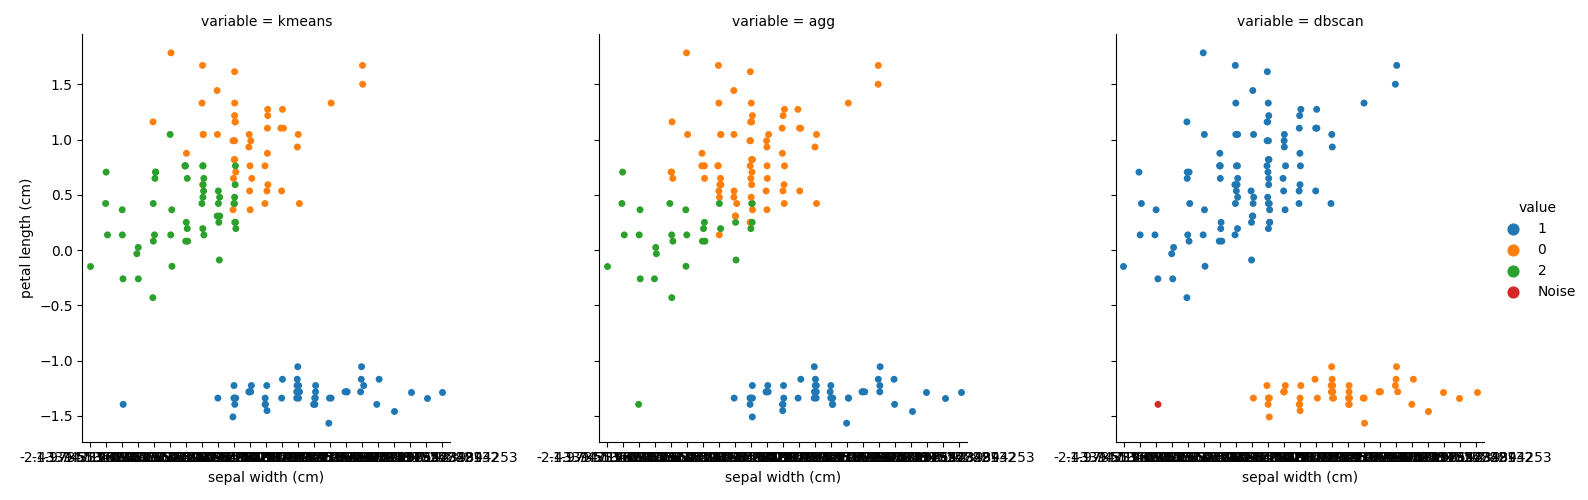
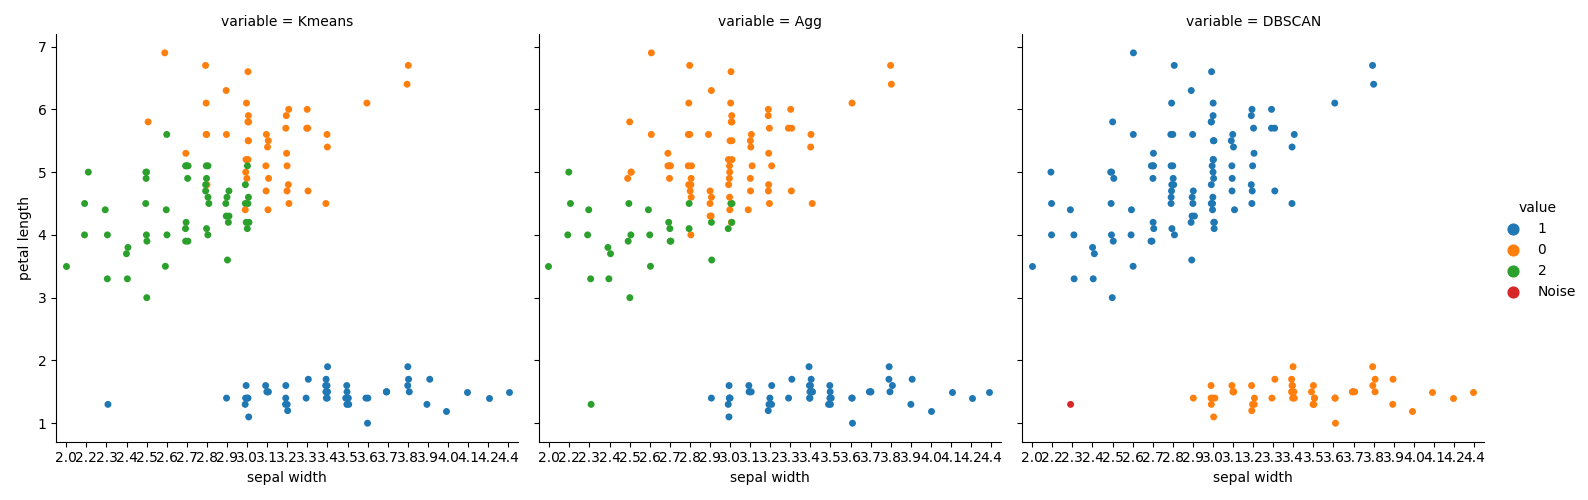
fixed dimensionality problem

diff --git a/Day 3 exo.py b/Day 3 exo.py
@@ -1,15 +1,21 @@
 import pandas as pd
 import seaborn as sns
 from sklearn.datasets import fetch_california_housing, load_iris
-from sklearn.preprocessing import PolynomialFeatures, StandardScaler, Normalizer
+from sklearn.preprocessing import PolynomialFeatures, StandardScaler
 from sklearn.decomposition import PCA
 from sklearn.cluster import DBSCAN, AgglomerativeClustering, KMeans
-from sklearn.metrics import calinski_harabasz_score, davies_bouldin_score, silhouette_score
+from sklearn.metrics import silhouette_score
 
+#(a) get data
 housing = fetch_california_housing()
 X = housing["data"]
+
+#(b) get polynomials, feature names
 poly = PolynomialFeatures(degree=2, include_bias=False)
-df = pd.DataFrame(poly.fit_transform(X), columns=poly.get_feature_names(housing.feature_names))
+fn = poly.get_feature_names(housing.feature_names)
+
+#(c) save to csv
+df = pd.DataFrame(poly.fit_transform(X), columns = fn)
 df["y"] = housing["target"]
 df.to_csv("./output/polynomials.csv")
 
@@ -17,82 +23,96 @@ df.to_csv("./output/polynomials.csv")
 """"
 Exercice 2
 """
+
+#(a) get data
 olympics = pd.read_csv("./data/olympics.csv", index_col=0)
-olympics.head()
+
+#(b)print descriptives
 olympics.dtypes
-olympics.describe
+olympics.describe()
+
+
 # The matrix's index is sorted by score, so abandonning score would not lose information on score ranking.
 # Further, score is a linear combination of the other covariates. It has hence appears as the outcome of interest.
-# This would make score the Y vector to be predicted by X the design matrix of performance on indiviudal tasks. Therfore,
-# it would make sense to assign it its own vector drop score from the dataframe.
+# This would make score the target vector to be predicted by X, the design matrix of performance on individual tasks.
+# Therefore, it would make sense to assign it its own vector drop score from the dataframe.
 olympics = olympics.drop(columns = ["score"])
 
-# (b)
+# (c)
 scaler = StandardScaler()
 scaler.fit(olympics)
-nolympics = pd.DataFrame(scaler.transform(olympics), columns=olympics.columns)
-nolympics.var(axis=0)
+n_olympics = pd.DataFrame(scaler.transform(olympics), columns=olympics.columns)
 
-# (c)
+#check it has unit variance
+n_olympics.var(axis=0)
+
+#(c)
 pca = PCA(random_state=42)
-pca.fit(nolympics)
-comp = pca.components_  # how does it represent covariates v componenets
+pca.fit(n_olympics)
+n_olympics_components = pd.DataFrame(pca.components_, columns = olympics.columns)
+# The most influential covariates in the 1st component are the 100m sprint, 110m hurdles, and running long.
+# The most influential covariates in the 2nd component are the discus throw, pole vault, 1,500m run.
+# The most influential covariates in the 3rd component are the high jump, 100m, and the 1,500 run.
+# These are the variables in which there is the most variance and most informative.
+
+#(d)
 df = pd.DataFrame(pca.explained_variance_ratio_, columns=["Explained Variance ratio"])
 df["Cumulative"] = df["Explained Variance ratio"].cumsum()
-# Taking components as the rows, the most influential covariates in 0 are 5, and 1 in decreasing order of influence.
-# This corresponds to doing well on the 100m, the 400m, and the long jump, which might indicate that these skills
-# are the most valuable to the decathlon. T
-# These seem to correspond to a more agile profile.
-# (d)
-# We need at least 6 covariates to explain at least 90% of the variance.
+# We need at least 7 covariates to explain at least 90% of the variance.
 
 """
 Exercice 3
 """
+
+#(a) get data
 iris = load_iris()
 x = iris["data"]
+
+#(b) scale
 scaler = StandardScaler()
 scaler.fit(x)
+x_unscaled = pd.DataFrame(iris["data"], columns=iris["feature_names"])
 x = pd.DataFrame(scaler.transform(x), columns=iris["feature_names"])
 
-# kmeans
+
+# (c) kmeans
 kmeans = KMeans(n_clusters=3, random_state=42)
 kmeans.fit(x)
-kmeansdf = pd.DataFrame(kmeans.fit_transform(x), columns=kmeans.get_feature_names_out())
-
-# Agglomerative Clustering
-agg = AgglomerativeClustering(n_clusters=3)
-agg.fit(x)
-aggdf = pd.DataFrame(agg.get_params(), columns=agg.feature_names_in_)
-
-# DBSCAN
-dbscan = DBSCAN(eps=1, min_samples=2)
-dbscan.fit(x)
-dbscandf = pd.DataFrame(dbscan.components_, columns=dbscan.feature_names_in_)
 
 # (d)
-df = pd.DataFrame(x, columns=iris["feature_names"])
-df["kmeans"] = kmeans.labels_
-df["agg"] = agg.labels_
-df["dbscan"] = dbscan.labels_ #-1 means noise - nothing to do with other clusters
-df.drop(columns = ["sepal length (cm)", "petal width (cm)"])
-df.head()
+#Agglomerative Clustering
+agg = AgglomerativeClustering(n_clusters=3)
+agg.fit(x)
+#DBSCAN
+dbscan = DBSCAN(eps=1, min_samples=2)
+dbscan.fit(x)
 
-print(silhouette_score(x, kmeans.labels_))
-print(silhouette_score(x, agg.labels_))
-print(silhouette_score(x, dbscan.labels_))
+#join
+df = pd.DataFrame(kmeans.labels_, columns = ["Kmeans"])
+df["Agg"] = agg.labels_
+df["DBSCAN"] = dbscan.labels_#-1 means noise - nothing to do with other clusters
+
+print(f"K-means silouhette score: {silhouette_score(x, kmeans.labels_)} \n "
+      f"Agglomerative clustering silouhette score:{silhouette_score(x, agg.labels_)} \n"
+      f"DBSCAN clustering silouhette score{silhouette_score(x, dbscan.labels_)} \n")
 #DBSCAN presents the highest silouhette score. It is the only to leave
-#data points as noise, rather than clustering all observations, hence
-#must be treated differently.
+#data points as noise, rather than clustering all observations. Agglomerative and kmeans clustering
+#excludes no data points to noise and assign all to mutually exclusive cluseters.
+#Hence DBSCAN must be treated differently.
+#DBSCAN has the highest silouhette score.
+
+#(e)
+df["sepal width"] = x_unscaled["sepal width (cm)"]
+df["petal length"] = x_unscaled["petal length (cm)"]
 
 #(f)
-df["dbscan"] = df["dbscan"].replace(-1, "Noise")
+df["DBSCAN"] = df["DBSCAN"].replace(-1, "Noise")
 
 #(g)
 df["id"] = df.index
-value_vars = ["kmeans", "agg",  "dbscan"]
-id_vars = ["sepal width (cm)", "petal length (cm)"]
+value_vars = ["Kmeans", "Agg",  "DBSCAN"]
+id_vars = ["sepal width", "petal length"]
 melted = df.melt(id_vars=id_vars, value_vars=value_vars)
-fig = sns.catplot(data = melted, x="sepal width (cm)", y="petal length (cm)", hue="value", col="variable")
+fig = sns.relplot(data = melted, x="sepal width", y="petal length", hue="value", col="variable")
 fig.figure.savefig("./output/cluster_petal.pdf.")
 #there are points that appear as clear outliers omitted by dbscam: this is intuitively convenient for a classification problem.

diff --git a/Day 5 exos.py b/Day 5 exos.py
@@ -1,0 +1,82 @@
+import pickle
+import codecs
+import chardet
+from sklearn.metrics.pairwise import cosine_similarity
+from scipy.spatial.distance import squareform
+from scipy.cluster.hierarchy import dendrogram, linkage
+from pathlib import Path
+from string import digits, punctuation
+import nltk
+import pandas as pd
+from textblob import TextBlob
+from sklearn.feature_extraction.text import CountVectorizer, TfidfVectorizer
+
+def tokenize_and_stem(text):
+    """Return tokens of text deprived of numbers and punctuation"""
+    d = {p: "" for p in digits + punctuation} #iterates to create dict.
+    text = text.translate(str.maketrans(d))
+    return [_stemmer.stem(t) for t in nltk.word_tokenize(text.lower())]
+
+_stemmer = nltk.snowball.SnowballStemmer("english")
+_stopwords = nltk.corpus.stopwords.words("english")
+
+
+#Read Data
+data = sorted(Path('./data/speeches').glob('*R0*'))
+corpus = []
+for i in range(0,len(data)):
+    try:
+        corpus.append((data[i].open('r', encoding='utf-8').read()))
+    except:
+        print(data[i])
+#Vectorise speeches
+Tfidf = TfidfVectorizer(stop_words=_stopwords, tokenizer=tokenize_and_stem, ngram_range=(1,3), max_features = None)
+Tfidf.fit(corpus)
+Tfidf_matrix_pk = Tfidf.transform(corpus)
+file = open('./output/speech_matrix.pk.', 'wb')
+pickle.dump(Tfidf_matrix_pk, file)
+Tfidf_matrix_csv = pd.DataFrame(Tfidf_matrix_pk)
+Tfidf_matrix_csv.to_csv('./output/terms.csv')
+file.close()
+
+"Exercice 3"
+count_matrix = open('./output/speech_matrix.pk', 'rb')
+tfidf_document = pickle.load(count_matrix)
+cosine = cosine_similarity(tfidf_document)
+distance_matrix = squareform(cosine,force='tovector',checks=False)
+
+from matplotlib import pyplot as plt
+
+z_num = linkage(tfidf_document.todense(),'ward')
+df = pd.DataFrame(z_num, columns = ["1", "2", "Distance", "4"])
+df["Distance"].sort_values(ascending =False)
+threshold = df["Distance"].iloc[9]
+plt.figure(figsize=(25, 10))
+dn = dendrogram(z_num, color_threshold = threshold, no_labels = True)
+
+"""Exercice 4"""
+
+bad_text = open("./data/Stellenanzeigen.txt", 'r').read()
+
+chardet.detect("./data/Stellenanzeigen.txt")
+
+#from chardet.universaldetector import UniversalDetector
+#def detect_encode(file):
+#    detector = UniversalDetector()
+#    detector.reset()
+#    with open(file, 'rb') as f:
+#        for row in f:
+#            detector.feed(row)
+#            if detector.done: break
+#    detector.close()
+#    return detector.result
+#print(detect_encode('./data/Stellenanzeigen.txt'))
+
+Newspaper = read(./data/Stellenanzeigen.txt)
+chardet.detect(bad_text)
+chardet.universaldetector(bad_text)
+
+codecs.decode(
+df = pickle.load(bad_text)
+
+save"./output/speeches_dendrogram.pdf."

diff --git a/Day 4 exo.py b/Day 4 exo.py
@@ -2,7 +2,7 @@ import pandas as pd
 import seaborn as sns
 import matplotlib.pyplot as plt
 from sklearn.model_selection import train_test_split, GridSearchCV
-from sklearn.metrics import roc_auc_score
+from sklearn.metrics import roc_auc_score, confusion_matrix
 from sklearn.linear_model import LinearRegression as OLS
 from sklearn.linear_model import Lasso, Ridge
 from sklearn.datasets import fetch_california_housing, load_breast_cancer, load_diabetes
@@ -41,13 +41,11 @@ diabetes = load_diabetes()
 X = diabetes["data"]
 y = diabetes["target"]
 diabetes[""]
-
-
 X_train, X_test, y_train, y_test = train_test_split(X, y, random_state=42)
 
 #Model Pipelines
 algorithms = [("scaler", StandardScaler()),
-               ("nn", MLPRegressor(solver="adam", random_state=42, max_iter=1000))] #MinMax is the variables, regrossor the values?
+               ("nn", MLPRegressor(solver="lbfgs", random_state=42, max_iter=1000))] #MinMax is the variables, regrossor the values?
 pipe = Pipeline(algorithms, verbose=True) #what does verbose mean
 param_grid = {"nn__hidden_layer_sizes": [(75, 75), (90, 90), (100, 100)], #__ means it takes the key word
               "nn__alpha": [0.001, 0.0025, 0.005]}
@@ -75,7 +73,7 @@ X_train, X_test, y_train, y_test = train_test_split(X, y, random_state=42)
 
 
 algorithms = [("scaler", MinMaxScaler()),
-            ("nn", MLPRegressor(solver="lbfgs", random_state=42, max_iter=1000))] #use lbfgs because it is a small dataset
+            ("nn", MLPClassifier(solver="lbfgs", random_state=42, max_iter=1000))] #use lbfgs because it is a small dataset
 pipe = Pipeline(algorithms, verbose=True)
 param_grid = {"nn__hidden_layer_sizes": [(75, 75), (100, 100)],
               "nn__alpha": [0.001, 0.005]}
@@ -85,12 +83,13 @@ grid.best_estimator_
 #The best estimator is that with  alpha=0.001, hidden_layer_sizes = (100, 100). It's score is:
 grid.best_score_
 #because it is close to 1. This means the total negative and total positive curves intersect very little.
-# Therefore, distinguishes well between positive class and negative class. It is a good generalisation.
+#Therefore, the model distinguishes well between positive class and negative class.
+#It is a good generalisation.
 
 
 #(d)
-results = pd.DataFrame(grid.cv_results_)
-scores = results["mean_test_score"].values.reshape(2,2)
-sns.heatmap(scores, annot=True,
-            xticklabels=param_grid["nn__hidden_layer_sizes"],
-            yticklabels=param_grid["nn__alpha"])
+preds = grid.predict(X_test)
+matrix = confusion_matrix(y_test, preds)
+sns.heatmap(matrix, annot=True,
+            xticklabels=cancer["target_names"],
+            yticklabels=cancer["target_names"])
